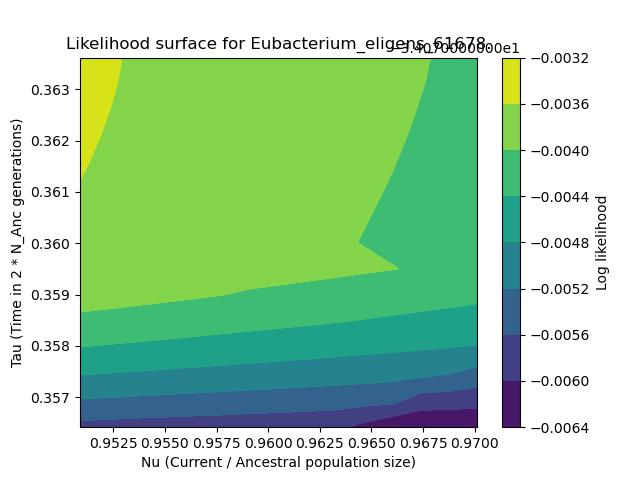
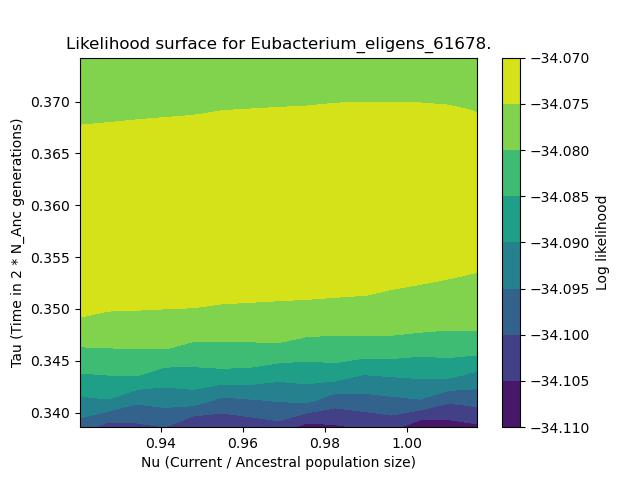
E. eligens

diff --git a/Scripts/plot_likelihood.py b/Scripts/plot_likelihood.py
@@ -471,8 +471,8 @@ class PlotLikelihood():
                 # y_range = numpy.linspace(y  * 0.9, y * 1.3, npts)
 
                 # E. eligens
-                x_range = numpy.linspace(x * 0.99, x * 1.01, npts)
-                y_range = numpy.linspace(y * 0.99, y * 1.01, npts)
+                x_range = numpy.linspace(x * 0.95, x * 1.05, npts)
+                y_range = numpy.linspace(y * 0.95, y * 1.05, npts)
                 
 
                 X, Y = numpy.meshgrid(x_range, y_range)
